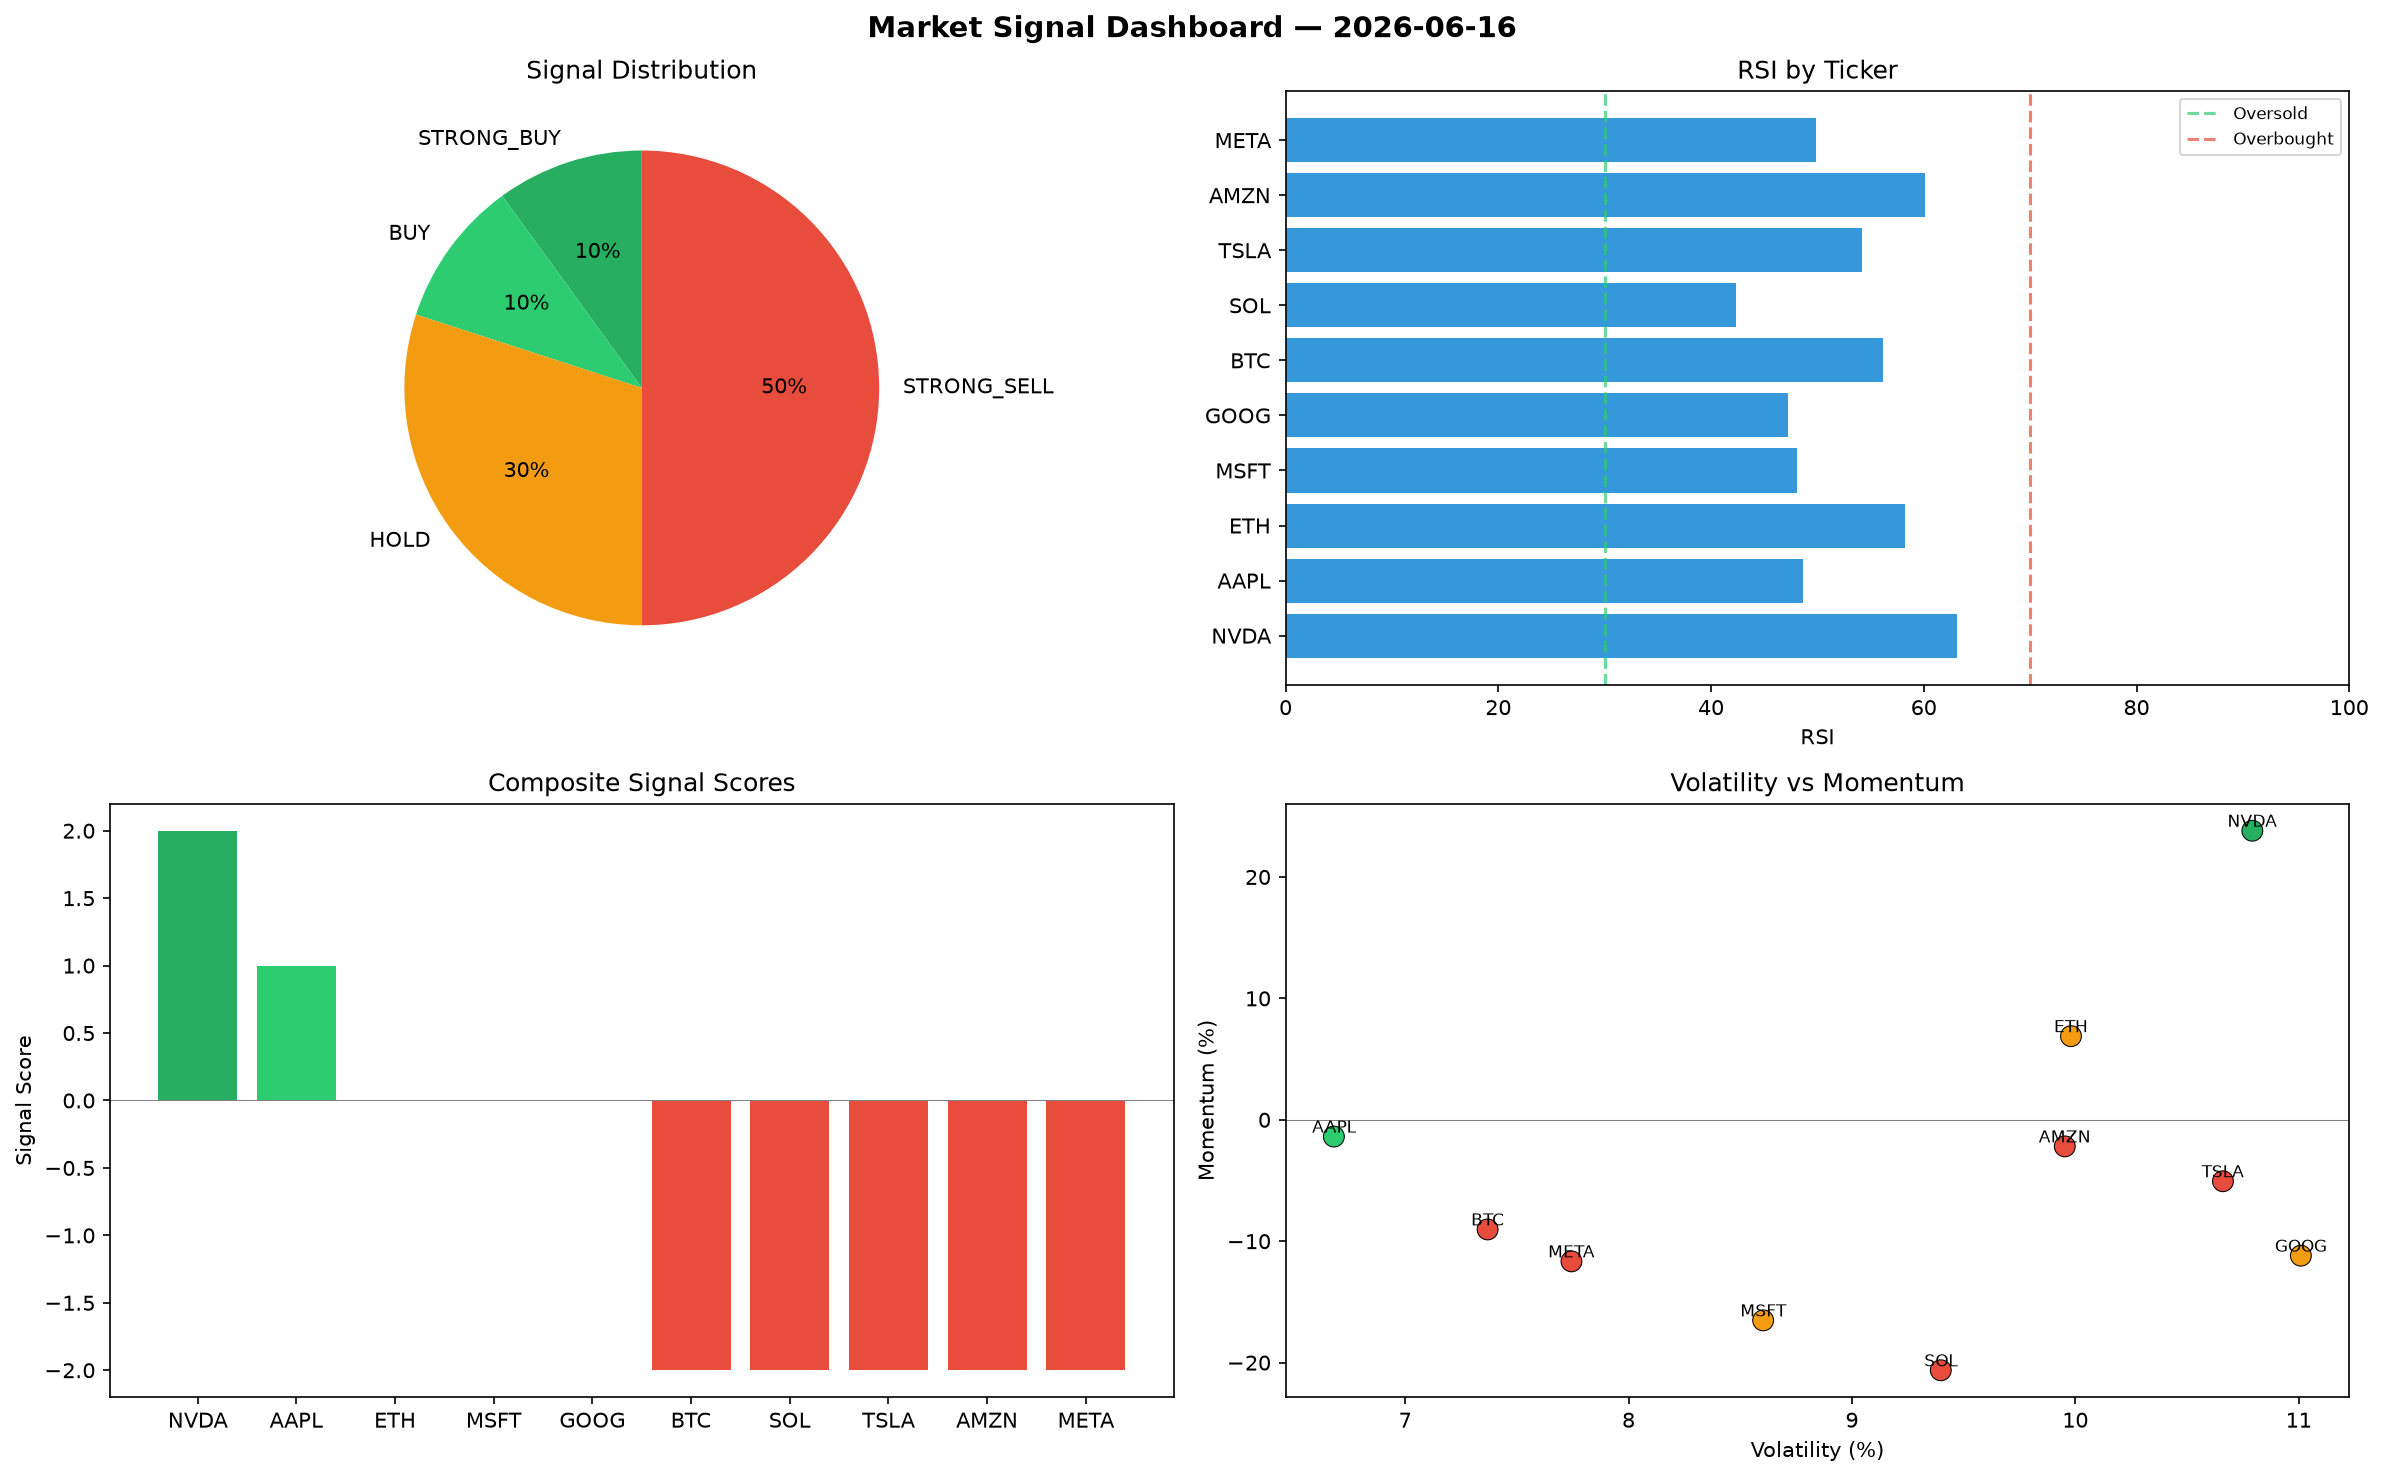
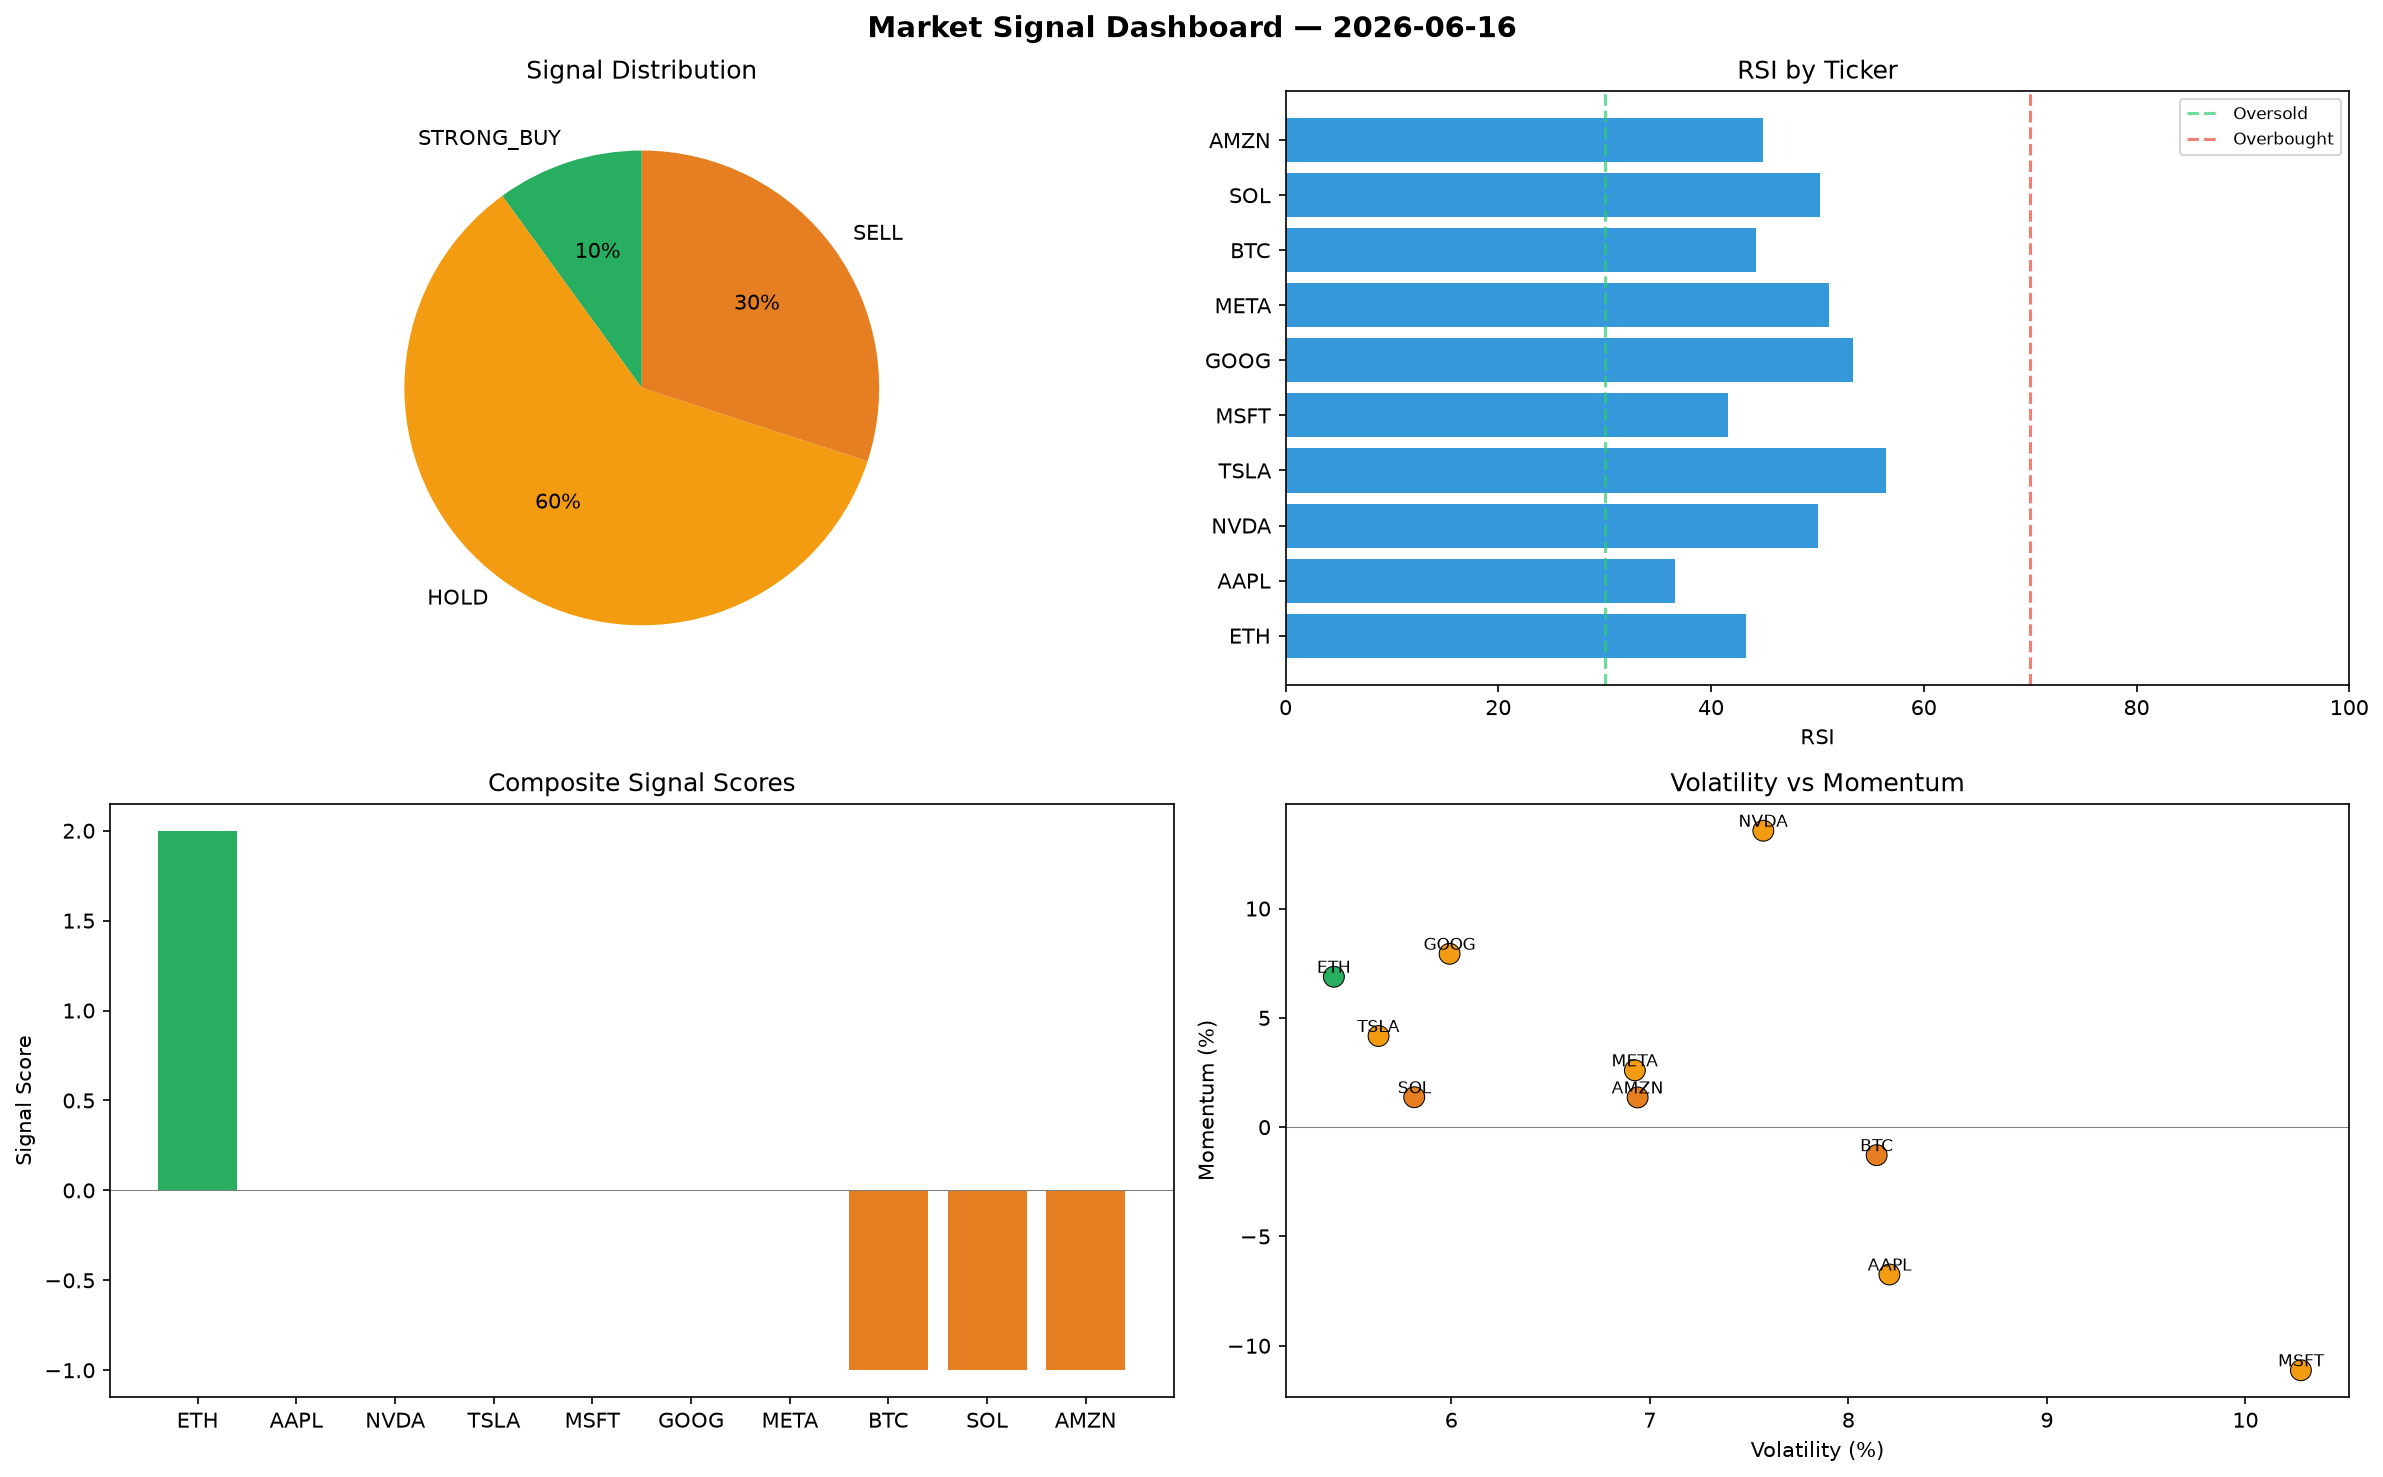
automated-bots: market signals 2026-06-16T18:42

diff --git a/logs/2026-06-16.md b/logs/2026-06-16.md
@@ -1,6 +1,6 @@
 # Market Signal Report — 2026-06-16
 
-**Run ID:** `cd7e838d82` | **Buy:** 2 | **Sell:** 5 | **Hold:** 3
+**Run ID:** `726e80a995` | **Buy:** 1 | **Sell:** 3 | **Hold:** 6
 
 ![Dashboard](2026-06-16_dashboard.png)
 
@@ -8,28 +8,28 @@
 
 | Ticker | Price | Signal | Score | RSI | Momentum | Confidence |
 |--------|-------|--------|-------|-----|----------|------------|
-| NVDA | $1184.51 | **STRONG_BUY** | 2 | 63.09 | 0.2381 | 0.5 |
-| AAPL | $2371.38 | **BUY** | 1 | 48.68 | -0.0138 | 0.25 |
-| ETH | $4828.86 | **HOLD** | 0 | 58.21 | 0.0689 | 0.0 |
-| MSFT | $3001.25 | **HOLD** | 0 | 48.05 | -0.1652 | 0.0 |
-| GOOG | $2482.29 | **HOLD** | 0 | 47.26 | -0.1119 | 0.0 |
-| BTC | $1927.09 | **STRONG_SELL** | -2 | 56.2 | -0.0903 | 0.5 |
-| SOL | $3856.97 | **STRONG_SELL** | -2 | 42.37 | -0.2063 | 0.5 |
-| TSLA | $3193.17 | **STRONG_SELL** | -2 | 54.19 | -0.0506 | 0.5 |
-| AMZN | $2746.72 | **STRONG_SELL** | -2 | 60.14 | -0.0219 | 0.5 |
-| META | $3342.14 | **STRONG_SELL** | -2 | 49.87 | -0.1166 | 0.5 |
+| ETH | $4949.46 | **STRONG_BUY** | 2 | 43.32 | 0.0688 | 0.5 |
+| AAPL | $3724.3 | **HOLD** | 0 | 36.63 | -0.0674 | 0.0 |
+| NVDA | $5005.76 | **HOLD** | 0 | 50.03 | 0.1356 | 0.0 |
+| TSLA | $1596.44 | **HOLD** | 0 | 56.47 | 0.0417 | 0.0 |
+| MSFT | $2997.17 | **HOLD** | 0 | 41.64 | -0.1112 | 0.0 |
+| GOOG | $4089.17 | **HOLD** | 0 | 53.34 | 0.0793 | 0.0 |
+| META | $201.11 | **HOLD** | 0 | 51.08 | 0.026 | 0.0 |
+| BTC | $2173.77 | **SELL** | -1 | 44.25 | -0.0128 | 0.25 |
+| SOL | $4879.74 | **SELL** | -1 | 50.22 | 0.0137 | 0.25 |
+| AMZN | $4229.09 | **SELL** | -1 | 44.92 | 0.0136 | 0.25 |
 
 ## Delta vs Yesterday
 
 | Ticker | Today | Yesterday | Price Change | Signal Changed |
 |--------|-------|-----------|-------------|----------------|
-| NVDA | STRONG_BUY | STRONG_BUY | 📈 2335.76% | — |
-| AAPL | BUY | STRONG_BUY | 📉 -18.45% | ⚠ YES |
-| ETH | HOLD | STRONG_BUY | 📈 2451.04% | ⚠ YES |
-| MSFT | HOLD | HOLD | 📈 582.92% | — |
-| GOOG | HOLD | SELL | 📈 22.99% | ⚠ YES |
-| BTC | STRONG_SELL | SELL | 📈 8.53% | ⚠ YES |
-| SOL | STRONG_SELL | STRONG_SELL | 📈 346.94% | — |
-| TSLA | STRONG_SELL | STRONG_SELL | 📈 32.41% | — |
-| AMZN | STRONG_SELL | BUY | 📉 -20.79% | ⚠ YES |
-| META | STRONG_SELL | BUY | 📈 23.51% | ⚠ YES |
+| ETH | STRONG_BUY | STRONG_BUY | 📈 2514.75% | — |
+| AAPL | HOLD | STRONG_BUY | 📈 28.07% | ⚠ YES |
+| NVDA | HOLD | STRONG_BUY | 📈 10193.56% | ⚠ YES |
+| TSLA | HOLD | STRONG_SELL | 📉 -33.8% | ⚠ YES |
+| MSFT | HOLD | HOLD | 📈 582.0% | — |
+| GOOG | HOLD | SELL | 📈 102.6% | ⚠ YES |
+| META | HOLD | BUY | 📉 -92.57% | ⚠ YES |
+| BTC | SELL | SELL | 📈 22.42% | — |
+| SOL | SELL | STRONG_SELL | 📈 465.45% | ⚠ YES |
+| AMZN | SELL | BUY | 📈 21.96% | ⚠ YES |
